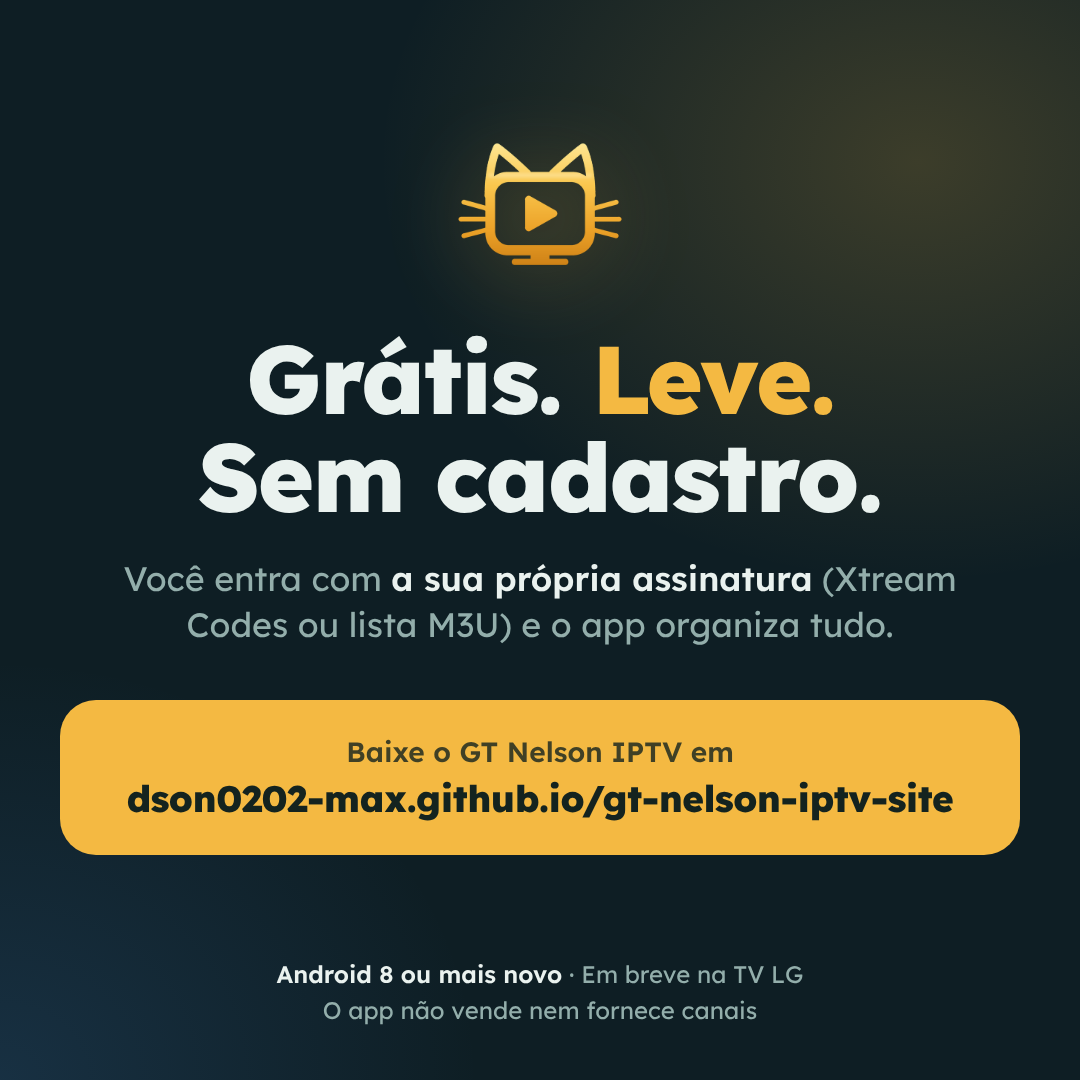
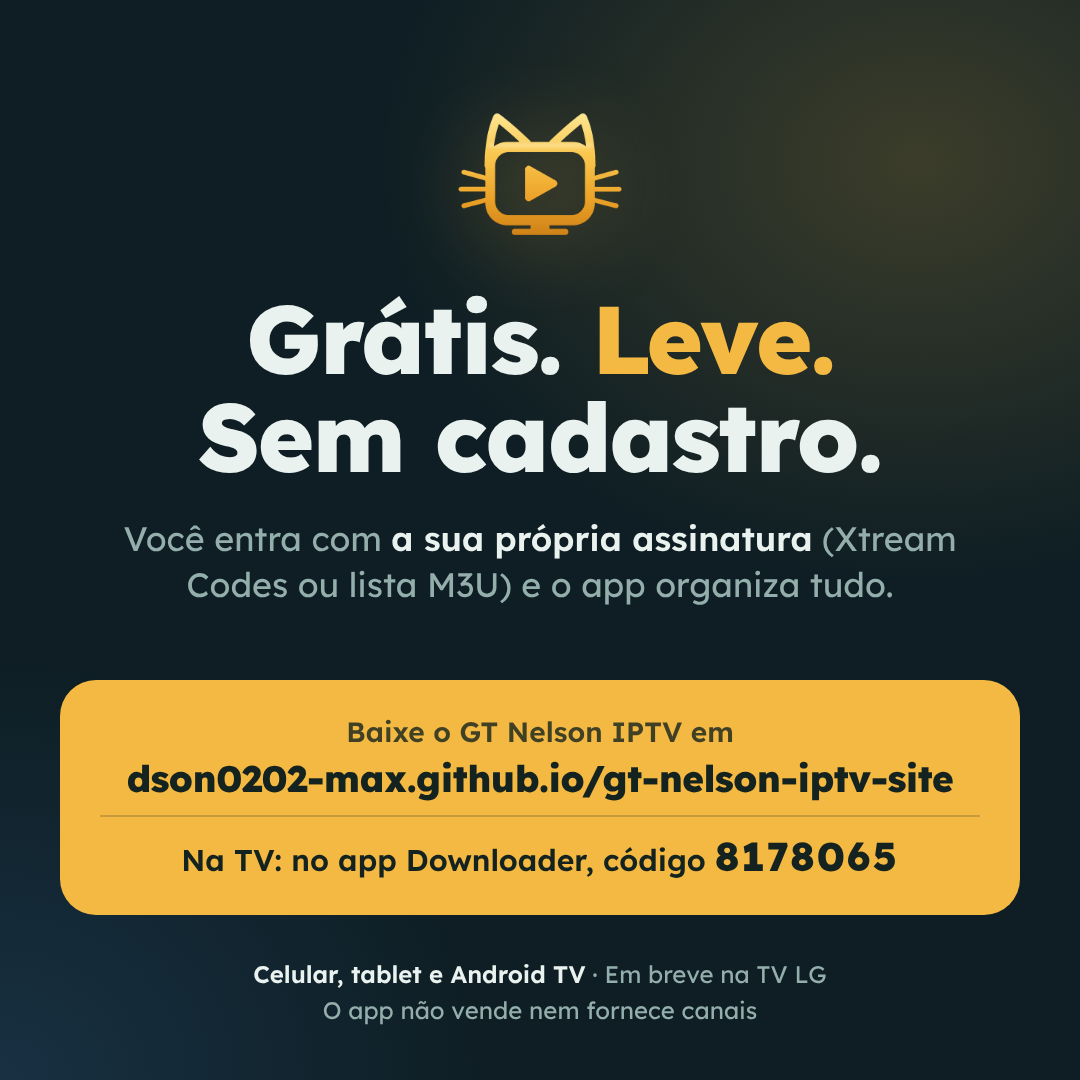
Pagina de download do app e politica de privacidade do Android

Changed region(s): [[0.0306, 0.275, 0.9472, 0.8556], [0.4278, 0.0917, 0.5806, 0.2444], [0.2444, 0.8861, 0.7639, 0.9167]]

diff --git a/index.html b/index.html
@@ -12,7 +12,7 @@
 <meta property="og:url" content="https://dson0202-max.github.io/gt-nelson-iptv-site/">
 <meta property="og:type" content="website">
 <link rel="icon" href="logo.png">
-<link rel="stylesheet" href="estilo.css?v=a239ee95">
+<link rel="stylesheet" href="estilo.css?v=180c569d">
 </head>
 <body>
 <header class="topo"><a href="./"><img src="logo.png" alt="" width="48" height="48"><span>GT Nelson IPTV</span></a></header>
@@ -53,7 +53,7 @@
 <ol class="passos">
   <li>Na loja da TV, instale o app <b>Downloader</b> (gratuito, ícone laranja).</li>
   <li>Permita que ele instale apps: no <b>Fire TV</b>, em Configurações › Minha Fire TV › Opções do desenvolvedor › Instalar apps desconhecidos (se as opções do desenvolvedor não aparecerem, em Minha Fire TV › Sobre, clique 7 vezes no nome do aparelho); no <b>Google TV</b>, em Configurações › Sistema › Sobre › toque 7 vezes em "Build do SO" para liberar as opções do desenvolvedor, e depois em Apps › Segurança › Fontes desconhecidas.</li>
-  <li>Abra o Downloader, digite <b>dson0202-max.github.io/gt-nelson-iptv-site</b> e, nesta página, escolha <b>Baixar</b> em Android TV.</li>
+  <li>Abra o Downloader e digite só o código <b class="codigo">8178065</b> (ou o endereço <b>dson0202-max.github.io/gt-nelson-iptv-site</b>). Nesta página, escolha <b>Baixar</b> em Android TV.</li>
   <li>Instale e abra. O app aparece na tela inicial da TV, e tudo funciona pelo controle remoto.</li>
 </ol>
 <p class="muted">Na TV, o app usa as mesmas telas da versão da TV LG. Os anúncios trazem um QR code: aponte a câmera do celular para ver o produto.</p>
@@ -90,7 +90,7 @@
   var REPO = 'dson0202-max/gt-nelson-iptv-site';
   var PLATAFORMAS = [
     { id: 'android', nome: 'Android', sub: 'Celular e tablet · Android 8 ou mais novo', prefixo: 'android-v', ext: '.apk', emBreve: false },
-    { id: 'androidtv', nome: 'Android TV', sub: 'Fire TV Stick, Google TV e TV Box · Android 5 ou mais novo', prefixo: 'androidtv-v', ext: '.apk', emBreve: false, como: '#instalar-tv' },
+    { id: 'androidtv', nome: 'Android TV', sub: 'Fire TV Stick, Google TV e TV Box · Android 5 ou mais novo · no Downloader, código 8178065', prefixo: 'androidtv-v', ext: '.apk', emBreve: false, como: '#instalar-tv' },
     { id: 'lg', nome: 'TV LG', sub: 'webOS · pela loja de apps da LG', loja: '', emBreve: true }
   ];
   var TODAS = 'https://github.com/' + REPO + '/releases';

diff --git a/estilo.css b/estilo.css
@@ -62,3 +62,4 @@ details p { margin: 10px 0 2px; }
 .anuncio .pr i { display: inline-block; white-space: nowrap; font-style: normal; background: #f4b942; color: #14231f; font-weight: 700; font-size: 12px; border-radius: 6px; padding: 1px 6px; margin-left: 6px; }
 .anuncio .mt { color: #93aeab; font-size: 13px; }
 .anuncio .ir { align-self: flex-start; margin-top: 4px; background: #f4b942; color: #14231f; font-weight: 700; font-size: 14px; border-radius: 999px; padding: 6px 14px; }
+.codigo { display: inline-block; font-size: 1.15em; letter-spacing: 2px; background: #f4b942; color: #14231f; border-radius: 8px; padding: 0 8px; }

diff --git a/privacidade.html b/privacidade.html
@@ -4,7 +4,7 @@
 <meta charset="utf-8">
 <meta name="viewport" content="width=device-width, initial-scale=1">
 <title>Política de privacidade · GT Nelson IPTV</title>
-<link rel="stylesheet" href="estilo.css?v=a239ee95">
+<link rel="stylesheet" href="estilo.css?v=180c569d">
 </head>
 <body>
 <header class="topo"><a href="./"><img src="logo.png" alt="" width="48" height="48"><span>GT Nelson IPTV</span></a></header>
